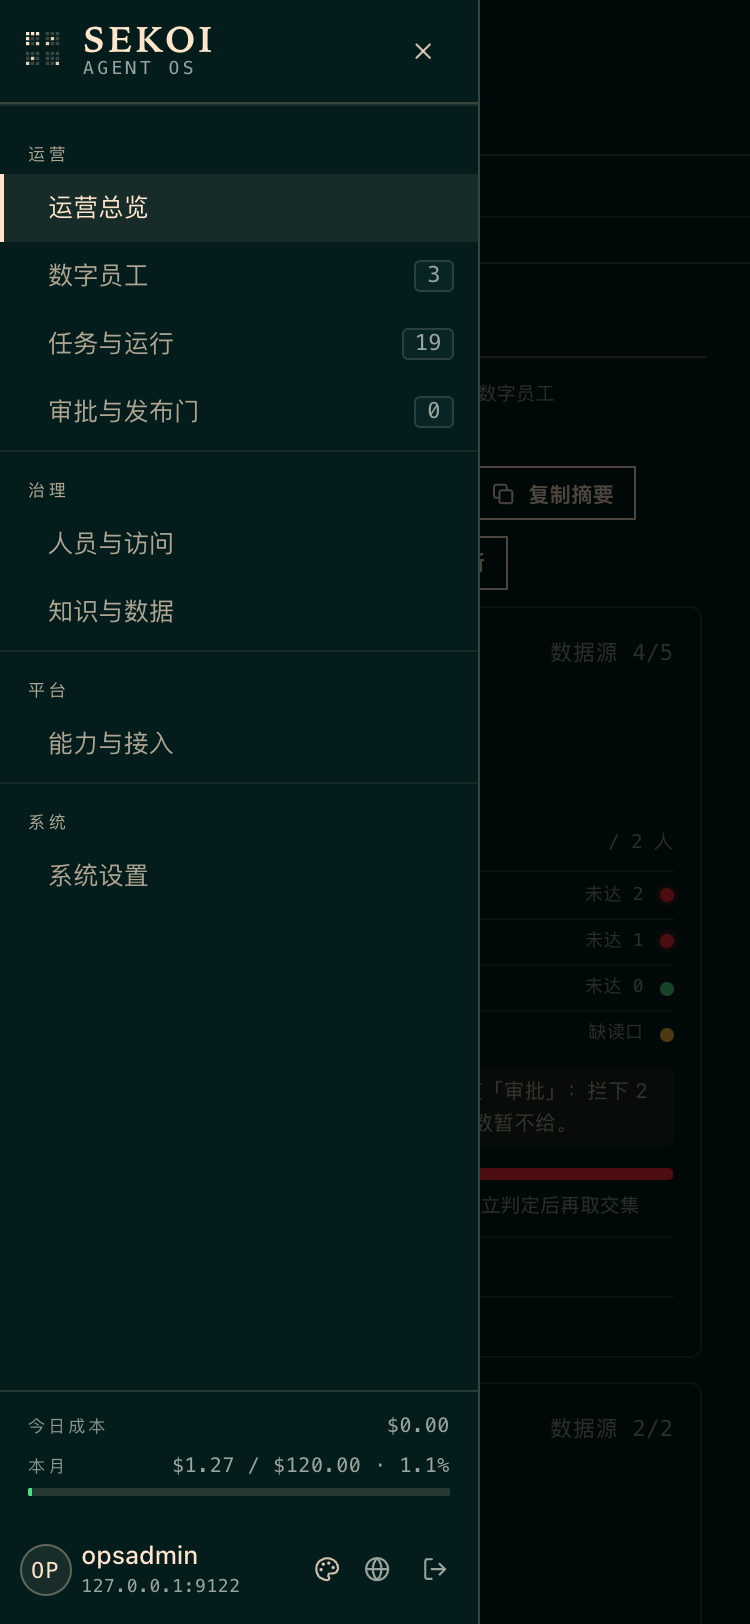
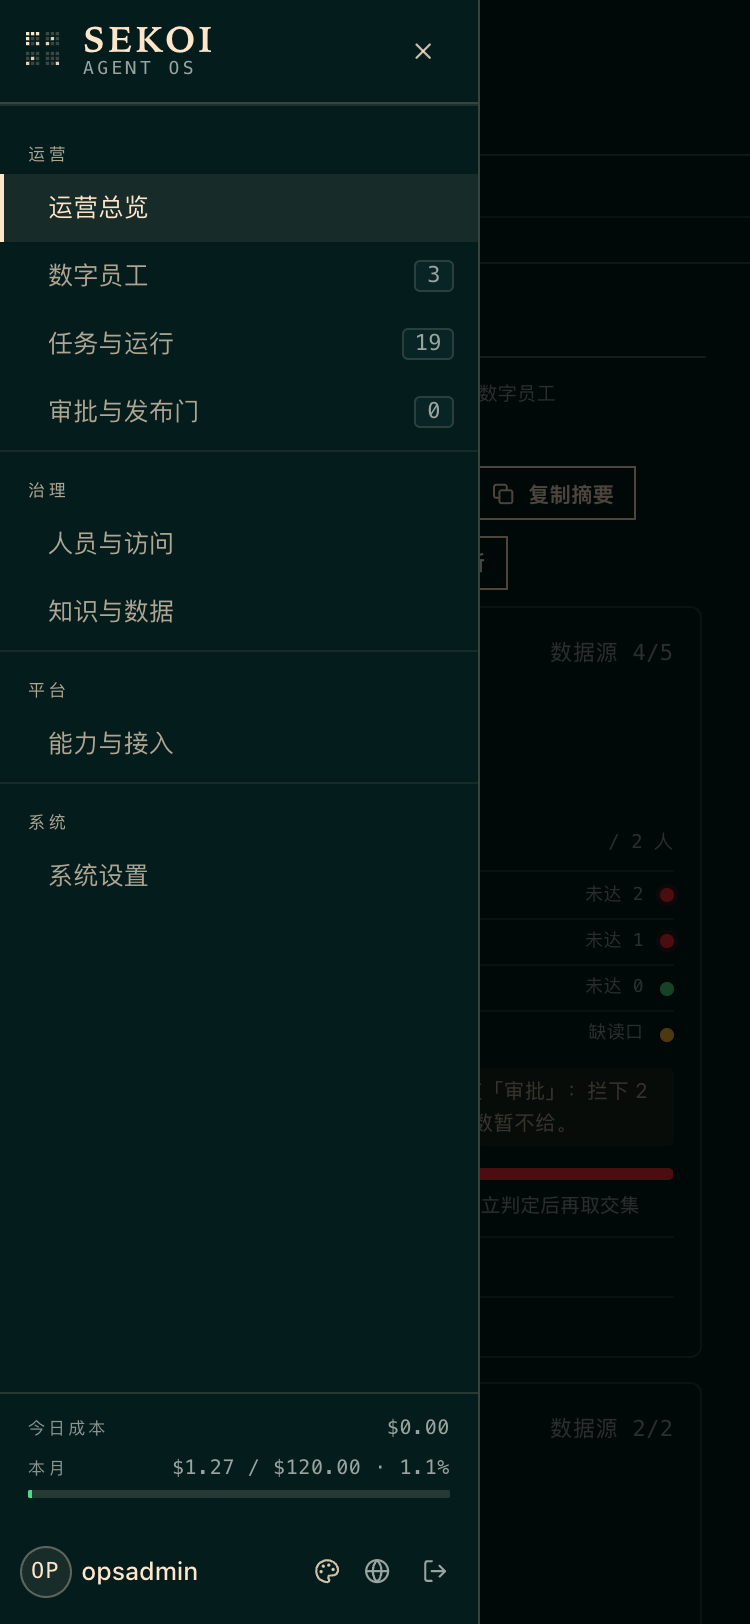
fix(shell/sidebar): 额度块常驻不再消失 + 芯片第二行去工程语言
1) 额度块布局稳定：删掉「全 null 就 return null」。今日成本 / 本月两行与 4px
   占比条位置永远在；未到数显示 11px「读取中…」（不是 —，不是空框），到数替换。
   useSidebarUsage 拆成两条独立腿：日窗 run-stats 与（月窗 run-stats + matrix 配额）
   各自 settled，今日先到就先上，不陪配额一起等；失败才显示 —。
2) 芯片第二行：删掉 window.location.host 兜底（127.0.0.1:9122 这种部署地址
   不再上屏），也删掉「像内部 id 就打成 —」的旧屏蔽；改为「租户 ID · 用户名首段」
   （t_seakoi_pilot · opsadmin），租户取不到整行不渲染。角色/租户仍留在 sr-only。

diff --git a/web/src/shell/SidebarUsage.tsx b/web/src/shell/SidebarUsage.tsx
@@ -3,9 +3,11 @@
  *
  * 骨架三行是「今日全局上限 $已用 / $上限 + 4px 占比条」「本月 $已用 / $配额 · 百分比」。
  * 本树 BFF 没有美元日上限的真口径（matrix 的 dailyTokens 是 token 预算），所以
- * 第一行退化成「今日成本 $X」——没有分母就不写分母，也不画占比条；第二行有真
- * 配额分母，占比条挂在它下面，颜色按占比走 --ok / --warn / --bad。
- * 任一读数取不到就是「—」，绝不补 0。
+ * 第一行退化成「今日成本 $X」——没有分母就不写分母。
+ *
+ * 布局稳定是硬约束：两块标签行 + 4px 占比条的位置**永远在**，任何一路数据慢
+ * （matrix 配额实测 5s+）都不许把整块抽掉。未到数显示「读取中…」，到数替换；
+ * 今日与本月各自落地、互不等待。读取失败才显示「—」，绝不拿 — 冒充还没回来的值。
  */
 import type { ReactNode } from "react";
 import { useSidebarUsage } from "./sidebar-data";
@@ -28,50 +30,67 @@ function toneOf(pct: number | null): string {
   return "var(--ok)";
 }
 
+/** 未到数：11px 弱色读数语，几何与真值同高（不留空框）。 */
+function Pending(): ReactNode {
+  return <span className="sidebar-usage-pending">读取中…</span>;
+}
+
 export function SidebarUsage(): ReactNode {
   const usage = useSidebarUsage();
-  // 一条真读数都没有 ⇒ 整块不渲染。宁可侧栏底部少一块，也不留一条
-  // 无内容的空白壳（空轨道/空边框都不是数据，只是噪声）。
-  const hasAny =
-    usage.todayCostUsd !== null ||
-    usage.monthCostUsd !== null ||
-    usage.monthQuotaUsd !== null;
-  if (!hasAny) return null;
   const pct = percentOf(usage.monthCostUsd, usage.monthQuotaUsd);
 
+  const todayText =
+    usage.todayCostUsd === null && !usage.todaySettled ? (
+      <Pending />
+    ) : (
+      money(usage.todayCostUsd)
+    );
+
+  const monthText = usage.monthSettled ? (
+    usage.monthCostUsd === null && usage.monthQuotaUsd === null ? (
+      "—"
+    ) : (
+      [
+        money(usage.monthCostUsd),
+        usage.monthQuotaUsd === null ? null : money(usage.monthQuotaUsd),
+      ]
+        .filter((part): part is string => part !== null)
+        .join(" / ") + (pct === null ? "" : ` · ${pct.toFixed(1)}%`)
+    )
+  ) : (
+    <Pending />
+  );
+
   return (
-    <div className="sidebar-usage" data-testid="sidebar-usage">
+    <div
+      className="sidebar-usage"
+      data-testid="sidebar-usage"
+      aria-busy={!usage.todaySettled || !usage.monthSettled}
+    >
       <div className="sidebar-usage-row">
         <span className="sidebar-usage-k">今日成本</span>
         <span className="sidebar-usage-v" data-testid="sidebar-usage-today">
-          {money(usage.todayCostUsd)}
+          {todayText}
         </span>
       </div>
 
       <div className="sidebar-usage-row">
         <span className="sidebar-usage-k">本月</span>
         <span className="sidebar-usage-v" data-testid="sidebar-usage-month">
-          {usage.monthCostUsd === null && usage.monthQuotaUsd === null
-            ? "—"
-            : [
-                money(usage.monthCostUsd),
-                usage.monthQuotaUsd === null ? null : money(usage.monthQuotaUsd),
-              ]
-                .filter((part): part is string => part !== null)
-                .join(" / ") +
-              (pct === null ? "" : ` · ${pct.toFixed(1)}%`)}
+          {monthText}
         </span>
       </div>
 
-      {pct !== null && (
-        <div
-          className="sidebar-usage-bar"
-          role="img"
-          aria-label={`本月已用 ${pct.toFixed(1)}%`}
-        >
-          <i style={{ width: `${pct}%`, background: toneOf(pct) }} />
-        </div>
-      )}
+      {/* 4px 占比条的位置常驻；未到数时宽度 0（不画假的占比）。 */}
+      <div
+        className="sidebar-usage-bar"
+        role="img"
+        aria-label={
+          pct === null ? "本月占比读取中" : `本月已用 ${pct.toFixed(1)}%`
+        }
+      >
+        <i style={{ width: pct === null ? "0%" : `${pct}%`, background: toneOf(pct) }} />
+      </div>
     </div>
   );
 }

diff --git a/web/src/shell/Auth5Session.tsx b/web/src/shell/Auth5Session.tsx
@@ -49,7 +49,7 @@ export function Auth5Session({
     isSessionExpired,
   );
   const [who, setWho] = useState<
-    { k: "loading" } | { k: "anon" } | { k: "ok"; display: string; role: string; tenant: string }
+    { k: "loading" } | { k: "anon" } | { k: "ok"; display: string; role: string; tenant: string | null }
   >({ k: "loading" });
   useEffect(() => {
     let alive = true;
@@ -72,8 +72,11 @@ export function Auth5Session({
               typeof body.granted === "string" && body.granted.trim()
                 ? body.granted.trim()
                 : "—";
-            const tid = typeof body.tenant_id === "string" ? body.tenant_id.trim() : "";
-            const tenant = tid && !/^[a-z]+_[0-9A-Za-z]+$/.test(tid) ? tid : "—";
+            const tid =
+              typeof body.tenant_id === "string" ? body.tenant_id.trim() : "";
+            // 租户 ID 本身就是给人看的归属标识（t_seakoi_pilot），不再按
+            // 「像内部 id 就打成 —」的旧口径屏蔽；没有就是 null，整行不渲染。
+            const tenant = tid === "" ? null : tid;
             setWho({ k: "ok", display: disp, role, tenant });
             // UI-QA P1: whoami 2xx 是本页唯一的「已登录证据」。广播出去，让同栏
             // 身份件的不确定态即刻闭嘴——两者同屏自相矛盾（下方已显示 opsadmin
@@ -131,14 +134,15 @@ export function Auth5Session({
       </div>
     );
   }
+  // 骨架该位置是「租户 · 邮箱前缀」。这里用「租户 ID · 用户名首段」：
+  // 部署地址/端口/via bisheng 这类实现细节一律不上屏；租户取不到就整行不渲染。
+  const firstSegment = who.display.split(/[\s@·/]+/).filter(Boolean)[0] ?? "";
   const sub =
-    who.tenant !== "—"
-      ? who.tenant
-      : who.role !== "—"
-        ? who.role
-        : typeof window !== "undefined"
-          ? window.location.host
-          : "—";
+    who.tenant === null
+      ? null
+      : firstSegment === ""
+        ? who.tenant
+        : `${who.tenant} · ${firstSegment}`;
   // 骨架的账号行只有「头像 + 姓名 + 弱色行」；版本号与角色一起收进 title。
   const chipTitle = [
     who.display,
@@ -162,9 +166,15 @@ export function Auth5Session({
           <b className="sidebar-account-name" data-testid="auth5-display">
             {who.display}
           </b>
-          <span className="sidebar-account-sub" data-testid="auth5-tenant" title={sub}>
-            {sub}
-          </span>
+          {sub !== null && (
+            <span
+              className="sidebar-account-sub"
+              data-testid="auth5-tenant"
+              title={sub}
+            >
+              {sub}
+            </span>
+          )}
         </div>
         {trailing !== null && (
           <span className="sidebar-chip-actions">{trailing}</span>
@@ -190,7 +200,7 @@ export function Auth5Session({
       </div>
       {/* 芯片里压缩掉的两行仍在无障碍树里：读屏与验收读数都还能读到。 */}
       <span className="sr-only" data-testid="auth5-role">
-        角色：{who.role}；租户：{who.tenant}
+        角色：{who.role}；租户：{who.tenant ?? "—"}
       </span>
     </>
   );

diff --git a/web/src/shell/sidebar-data.ts b/web/src/shell/sidebar-data.ts
@@ -182,6 +182,10 @@ export interface SidebarUsage {
   monthQuotaUsd: number | null;
   /** 今日全局上限：BFF 无真口径，恒 null（不画分母、不画占比条）。 */
   todayLimitUsd: number | null;
+  /** 今日那条读数是否已经落地：false = 仍在读（UI 显示「读取中…」而不是 —）。 */
+  todaySettled: boolean;
+  /** 本月两路读数是否都已落地（成本 + 配额各自 5s 量级，可能先后到）。 */
+  monthSettled: boolean;
 }
 
 const NO_USAGE: SidebarUsage = {
@@ -189,34 +193,54 @@ const NO_USAGE: SidebarUsage = {
   monthCostUsd: null,
   monthQuotaUsd: null,
   todayLimitUsd: null,
+  todaySettled: false,
+  monthSettled: false,
 };
 
-/** 侧栏底部额度块：今日 / 本月两条真读数 + 本月配额真读数，3 个读口并发；
- * 读到之前保持 null（侧栏不画这一块，也不画空轨道）。 */
+/** 侧栏底部额度块：今日 / 本月两条真读数 + 本月配额真读数。
+ *
+ * 三路读口一次并发发起，且**今日与本月分开落地**（run-stats 日窗 ~1.5s，
+ * matrix 配额 ~5s）：今日先到就先替换今日那一行，不陪着本月一起等。
+ * 落地前 settled=false —— 那是「还在读」，不是「没有」；两者在 UI 上分别是
+ * 「读取中…」与「—」，绝不用 — 冒充还没回来的数。 */
 export function useSidebarUsage(): SidebarUsage {
   const [usage, setUsage] = useState<SidebarUsage>(NO_USAGE);
 
   useEffect(() => {
     let alive = true;
-    const settle = async () => {
-      const today = beijingDate(0);
-      const tomorrow = beijingDate(1);
-      const monthStart = `${today.slice(0, 8)}01`;
-      const [todayCost, monthCost, quota] = await Promise.allSettled([
+    const today = beijingDate(0);
+    const tomorrow = beijingDate(1);
+    const monthStart = `${today.slice(0, 8)}01`;
+
+    const readToday = async () => {
+      const [todayCost] = await Promise.allSettled([
         loadWindowCost(today, tomorrow),
+      ]);
+      if (!alive) return;
+      setUsage((prev) => ({
+        ...prev,
+        todayCostUsd:
+          todayCost.status === "fulfilled" ? todayCost.value : null,
+        todaySettled: true,
+      }));
+    };
+
+    const readMonth = async () => {
+      const [monthCost, quota] = await Promise.allSettled([
         loadWindowCost(monthStart, tomorrow),
         loadMonthlyQuota(),
       ]);
       if (!alive) return;
-      const next: SidebarUsage = {
-        todayCostUsd: todayCost.status === "fulfilled" ? todayCost.value : null,
+      setUsage((prev) => ({
+        ...prev,
         monthCostUsd: monthCost.status === "fulfilled" ? monthCost.value : null,
         monthQuotaUsd: quota.status === "fulfilled" ? quota.value : null,
-        todayLimitUsd: null,
-      };
-      setUsage(next);
+        monthSettled: true,
+      }));
     };
-    void settle();
+
+    void readToday();
+    void readMonth();
     return () => {
       alive = false;
     };

diff --git a/web/src/shell/console-nav.css b/web/src/shell/console-nav.css
@@ -185,6 +185,14 @@
   white-space: nowrap;
 }
 
+/* 未到数的读数语：11px 弱色，占位与真值同高，几何不跳。 */
+.sidebar-usage-pending {
+  font-family: var(--sans);
+  font-size: 11px;
+  letter-spacing: 0.02em;
+  color: var(--fg-4);
+}
+
 .sidebar-usage-bar {
   height: 4px;
   overflow: hidden;
